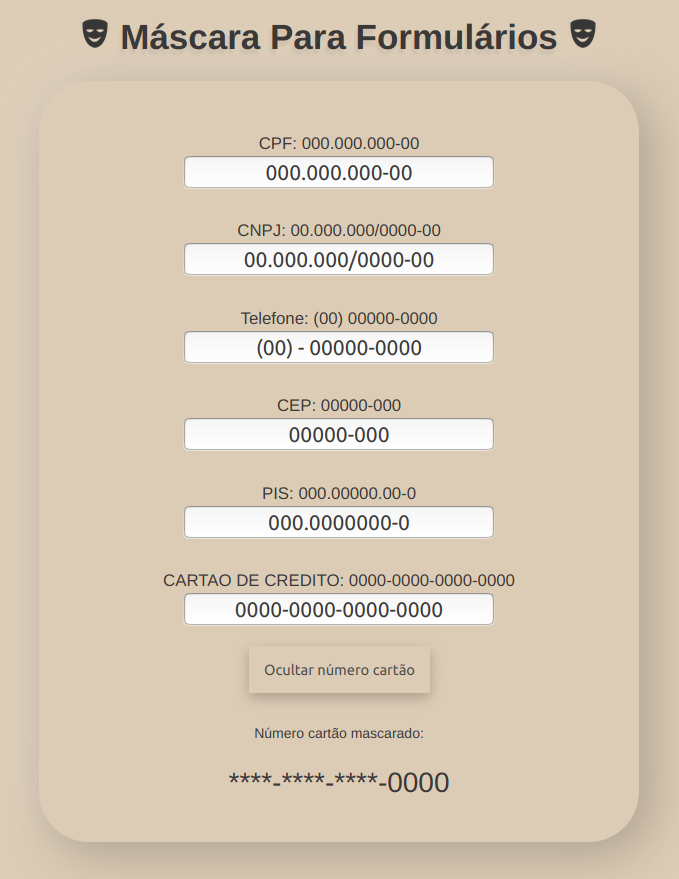
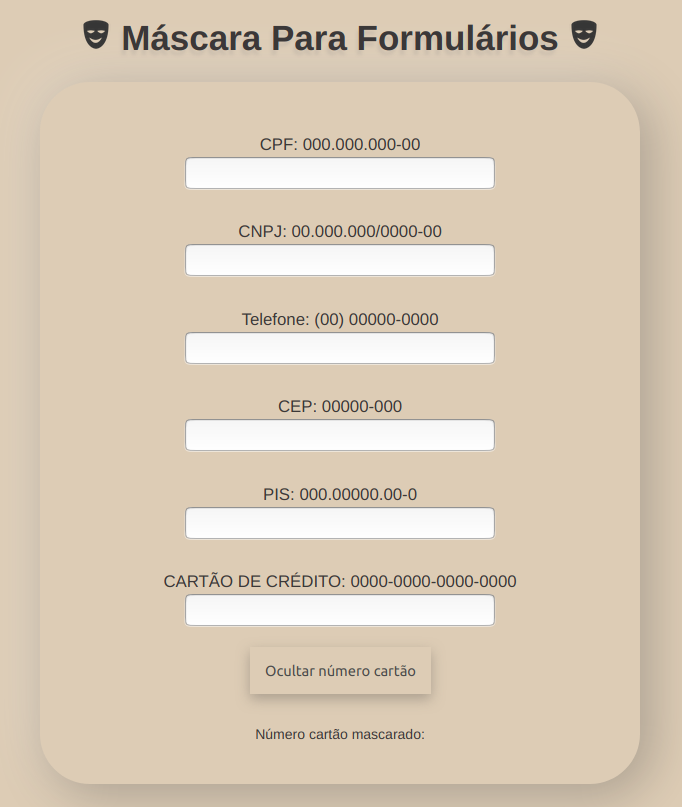
Readme finalizado

Changed region(s): [[0.2474, 0.1549, 0.7732, 0.9294], [0.1237, 0.9294, 0.9278, 0.9913], [0.1237, 0.0, 0.8969, 0.062]]

diff --git a/index.html b/index.html
@@ -44,7 +44,7 @@
           <input type="text" data-js="pis" />
         </div>
         <div class="main-form__mask--input">
-          <label>CARTAO DE CREDITO: 0000-0000-0000-0000</label>
+          <label>CARTÃO DE CRÉDITO: 0000-0000-0000-0000</label>
           <input type="text" data-js="cartao" />
           <button id="mascara-cartao">Ocultar número cartão</button>
         </div>
